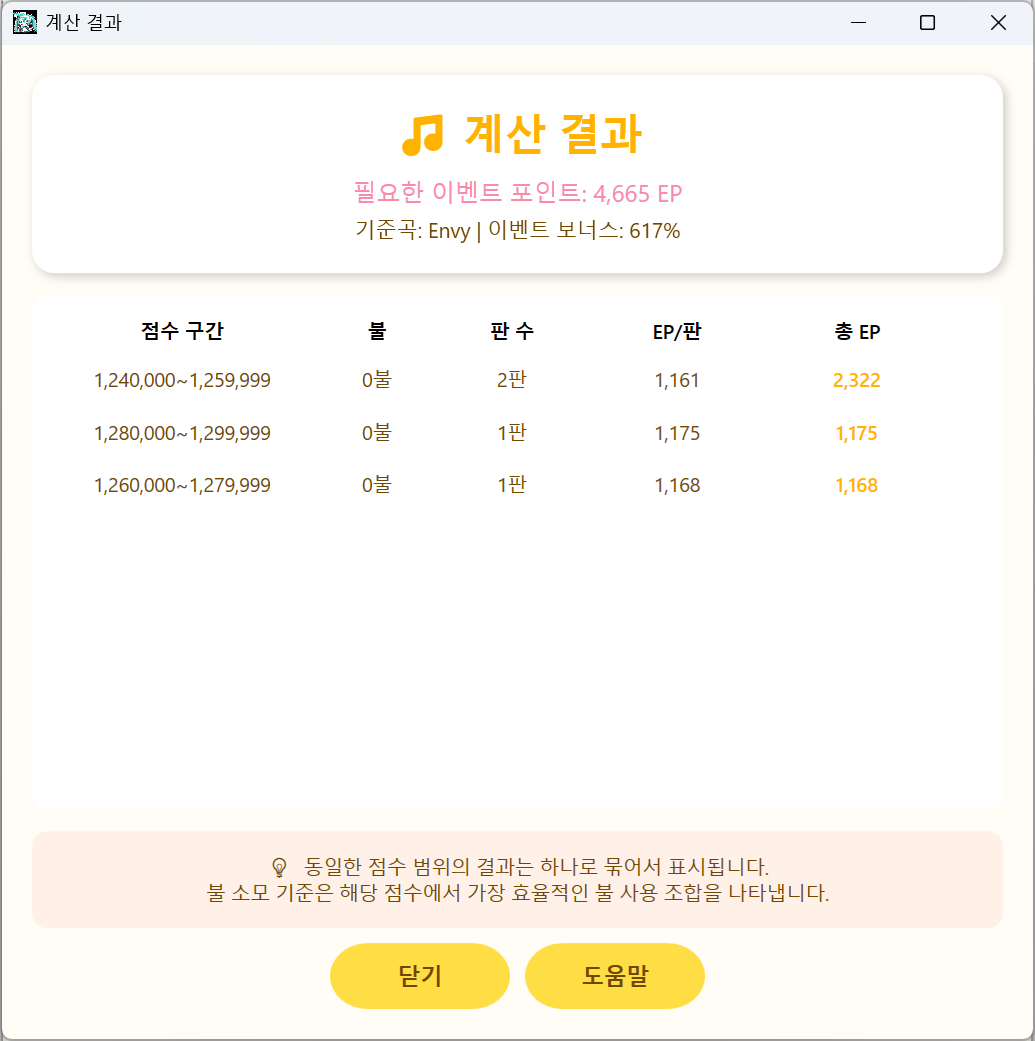
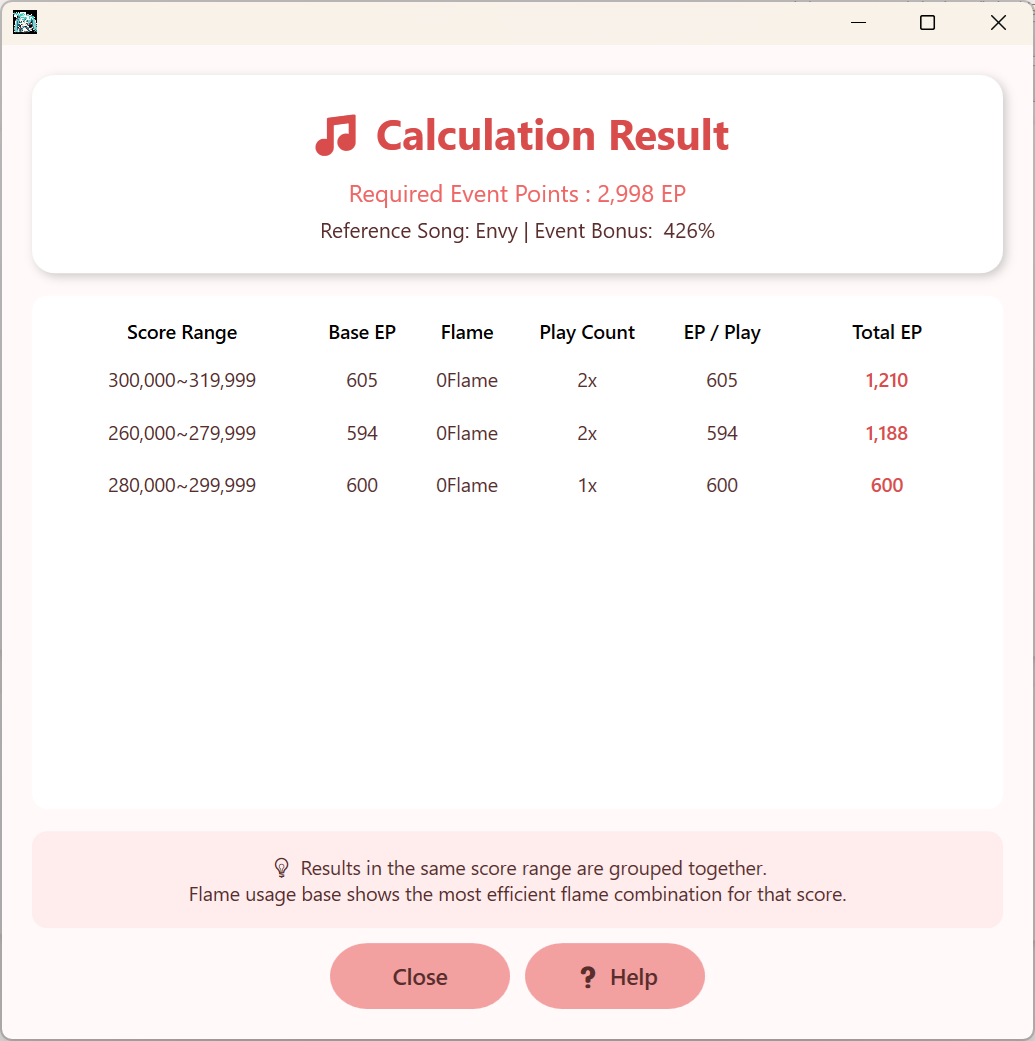
Add files via upload

diff --git a/README.md b/README.md
@@ -1,27 +1,25 @@
-# 🎯 점수아트 도우미 v1.2 (ProSekai Event Calculator)
-**프로젝트 세카이** 이벤트에서 **목표 이벤트 포인트에 정확히 도달**할 수 있는 **최적의 플레이 조합을 계산**해주는 Windows용 비공식 도우미 프로그램입니다.
+# 🎶 프로젝트 세카이 점수아트 도우미
+
+> **최종 버전:** v1.2.1  
+> **제작자:** 서리  
+> **테스트 협력:** 칸나, 냐고, 텐시, 
+> **지원 언어:** 한국어 / 日本語 / English  
+> **운영체제:** Windows 11 64bit 기준
 
 ---
 
-## 🌍 **NEW! 글로벌 다국어 지원**
-**v1.2 주요 업데이트**: 이제 **한국, 일본, 글로벌 서버** 모든 사용자가 자신의 언어로 이용할 수 있습니다!
-- 🇰🇷 **한국어** (기본)
-- 🇯🇵 **日本語** (일본어) 
-- 🇺🇸 **English** (Global Server)
+## 🧭 프로그램 소개
+
+**프로젝트 세카이 점수아트 도우미**는  
+목표 이벤트 포인트에 **정확히 도달할 수 있는 최적의 플레이 조합**을 자동으로 계산해주는 도구입니다.  
+이벤트 막판 추격, 효율적인 불 소모 전략, 덱 점수 기반의 전략 수립을 도와줍니다.
 
 ---
 
-## 🖥 프로그램 소개
-이 프로그램은 이벤트 점수 구조와 불 배율 시스템을 분석하여, 가장 효율적인 플레이 조합을 자동으로 계산합니다.
+## 🚀 프로그램 실행
 
-### 🔧 주요 기능:
-- **🎯 정확한 EP 계산**: 목표 EP에 정확히 도달하는 조합 계산
-- **🔥 불 배율 최적화**: 0~5불 배율에 따른 효율적 플레이 분배
-- **⚙ 세밀한 설정**: 점수 범위 및 보너스 설정 가능
-- **🎨 다양한 테마**: 계절 테마 및 캐릭터 테마 (총 30종) 지원
-- **💾 자동 저장**: 마지막 설정 및 언어 선택 복원
-- **⌨ 단축키**: Enter(계산), F1(도움말)
-- **🌐 실시간 언어 변경**: 언어 선택 시 즉시 UI 변경
+- `ProSekaiEventCalculator.exe` 실행
+- 설정 파일이 없을 경우 **현재 계절에 맞는 테마**가 자동 적용됨
 
 ---
 
@@ -37,91 +35,107 @@
 ### English (Global)
 ![English Interface](Main_en.png)
 
+## 🧩 기본 사용법
+
+### 1⃣ 이벤트 포인트 입력
+- **현재 이벤트 포인트**: 현재 보유한 EP 입력
+- **목표 이벤트 포인트**: 도달하고자 하는 EP 입력  
+→ 자동으로 필요한 EP 차이 계산됨
+
+### 2⃣ 이벤트 보너스 입력
+- **보너스 (%)**: 현재 이벤트의 EP 보너스 퍼센트를 입력  
+  (예: 75%라면 `75` 입력, 없으면 `0`)
+
+### 3⃣ 점수 범위 설정 (예: Envy 점수 기준)
+- **최소 점수** / **최대 점수**: 플레이 가능한 범위를 입력  
+  본인의 덱에 따라 유연하게 조정
+
+### 4⃣ 계산 시작
+- `계산하기` 버튼 클릭 또는 `Enter` 키 입력  
+→ 계산 완료 후 자동으로 결과 창 팝업
+
+---
+
 ### 계산 결과 화면
 ![Result Screen](Result.png)
+
+| 항목         | 설명 |
+|--------------|------|
+| **Score Range** | 점수 구간 (20,000 단위) |
+| **Base EP**     | 0불 기준 EP |
+| **Flame**       | 사용된 불 배율 (0~5) |
+| **Play Count**  | 필요한 플레이 횟수 |
+| **EP / Play**   | 1판당 획득 EP |
+| **Total EP**    | 해당 조합의 총 획득 EP |
+
+---
+
+## 🎨 테마 변경
+
+- 우측 상단 드롭다운에서 테마 선택 가능
+- 계절 테마: 봄 / 여름 / 가을 / 겨울
+- 캐릭터 테마: 각 유닛별 총 26종
+
+---
+
+## ⚙ 기타 기능
+
+- 계산 느릴 경우: 점수 범위를 좁히거나 목표 EP를 소폭 조정
+- 설정 자동 저장: 테마, 보너스, 점수 범위 등은 프로그램 종료 시 자동 저장됨
+- 단축키:
+  - `Enter`: 계산 실행
+  - `F1`: 도움말 창 열기
+
+---
+
+## ❓ 자주 묻는 질문
+
+**Q1. "정확히 도달하는 조합을 찾을 수 없습니다" 라는 메시지가 나와요**  
+→ 점수 범위를 더 넓히거나 목표 EP를 조금 조정해보세요.
+
+**Q2. 계산이 너무 오래 걸려요**  
+→ 점수 범위를 좁히면 속도가 빨라집니다.
+
+---
+
+## 📌 업데이트 내역
+
+### 🔹 v1.0 (최초 버전)
+- 목표 EP에 정확히 도달하는 최적의 조합 자동 계산 기능 구현
+- 계절 기반 테마 적용 기능 포함
+
+---
+
+### 🔹 v1.1
+- **[Bugfix]** 동일 점수 구간에서 여러 불 배율이 있을 때 결과 누락되던 문제 수정
+  → 이제 모든 불 배율이 분리되어 정확히 출력됩니다
+
+---
+
+### 🔹 v1.2
+- **[New]** 글로벌 다국어 지원: 한국어 / 일본어 / 영어 지원
+- 언어 자동 저장 및 자연스러운 번역 텍스트 현지화 적용
+
+---
+
+### 🔹 v1.2.1
+- **[Fix]** 0불 플레이의 EP 계산 방식 개선 → **반올림 처리로 수정**
+- 결과 화면에 `Base EP` 컬럼 추가 → 0불 기준 EP 명시적으로 표시
+- 컬럼명 통일 (`PlayCount` → `Play Count`) 등 UI 가독성 향상
+
+---
+
+## 📝 참고 사항
+
+- 본 프로그램은 **비공식 도구**이며, Project SEKAI 운영팀과는 무관합니다
+- 가능한 정확한 결과를 제공하지만, 극히 예외적인 조건에서는 오차가 발생할 수 있습니다
+- Windows 10, 11 기준으로 제작 및 테스트됨
 
 ---
 
 ## 📥 다운로드
-[👉 최신 버전 다운로드 (v1.2)](https://github.com/serveman/ProjectSekaiScoreArtHelper/releases/latest/download/ProSekaiEventCalculator_v1.2.zip)
+[👉 최신 버전 다운로드 (v1.2.1)](https://github.com/serveman/ProjectSekaiScoreArtHelper/releases/latest/download/ProSekaiEventCalculator_v1.2.1.zip)
 
 **시스템 요구사항:**
 - 지원 OS: **Windows 10, 11 (64bit)**
-- .NET Framework 4.7.2 이상
 - 압축 해제 후 `ProSekaiEventCalculator.exe` 실행
-
----
-
-## ⚙ 사용법
-
-### 🌐 언어 설정
-1. 프로그램 상단 우측 **"언어:"** 콤보박스 클릭
-2. 원하는 언어 선택 (한국어/日本語/English)
-3. 즉시 전체 UI가 선택한 언어로 변경
-
-### 📊 계산하기
-1. **현재 이벤트 포인트** 입력  
-2. **목표 이벤트 포인트** 입력  
-3. **이벤트 보너스** 입력 (예: 75% → `75`)  
-4. **플레이 가능한 점수 범위** 설정 (최소~최대)
-5. **계산하기** 버튼 클릭 또는 Enter 키
-
-### 📈 결과창 해석
-- **점수 구간별** (20,000점 단위) 최적 조합 표시
-- **0불 기준** / **불 소모 기준** 플레이 조합
-- **총 획득 EP** 및 **필요 플레이 횟수**
-- **효율성 비교** 및 **불 사용량** 표시
-
----
-
-## 🆕 v1.2 업데이트 내용
-
-### 🌍 **글로벌 다국어 지원**
-- **3개 언어 완벽 지원**: 한국어, 일본어, 영어
-- **실시간 언어 변경**: 설정 변경 시 즉시 반영
-- **언어별 테마 이름**: 캐릭터 이름도 각 언어로 표시
-- **자동 언어 저장**: 선택한 언어가 다음 실행 시에도 유지
-
-### 🎨 **UI/UX 개선**
-- **완전 국제화**: 모든 텍스트, 버튼, 메뉴 다국어 지원
-- **동적 업데이트**: 언어 변경 시 콤보박스 항목도 실시간 변경
-- **일관된 번역**: 자연스럽고 정확한 번역 제공
-
-### 🔧 **기존 기능 유지**
-- 모든 계산 로직 및 기능은 v1.1과 동일하게 유지
-- 설정 호환성 100% 보장
-- 기존 사용자 데이터 손실 없음
-
----
-
-## 🌐 언어별 특징
-
-### 🇰🇷 **한국어**
-- 기존과 동일한 친숙한 인터페이스
-- 모든 캐릭터 이름 한글 표기
-
-### 🇯🇵 **日本語**  
-- 자연스러운 일본어 번역
-- 캐릭터 이름 정식 일본어 표기 (한자+히라가나)
-- "불" → "フレーム" 등 게임 용어 현지화
-
-### 🇺🇸 **English (Global)**
-- 글로벌 서버 사용자를 위한 영어 지원
-- 캐릭터 이름 로마자 표기
-- 직관적인 영어 인터페이스
-
----
-
-## 🤖 제작 정보
-- **제작자**: 서리
-- **테스트 및 피드백**: 칸나님, 냐고님, 텐시님
-- **다국어 번역**: 커뮤니티 피드백 반영
-- **카페 게시글**: [네이버 카페 바로가기](https://cafe.naver.com/pjsekai/675683)
-
----
-
-## 📌 주의사항
-- 이 도구는 **비공식 도우미**입니다.
-- 프로젝트 세카이 공식과는 관련이 없습니다.
-- 계산 결과는 점수 조건과 설정에 따라 달라질 수 있습니다.
-- **모든 서버** (한국/일본/글로벌)에서 사용 가능합니다.
